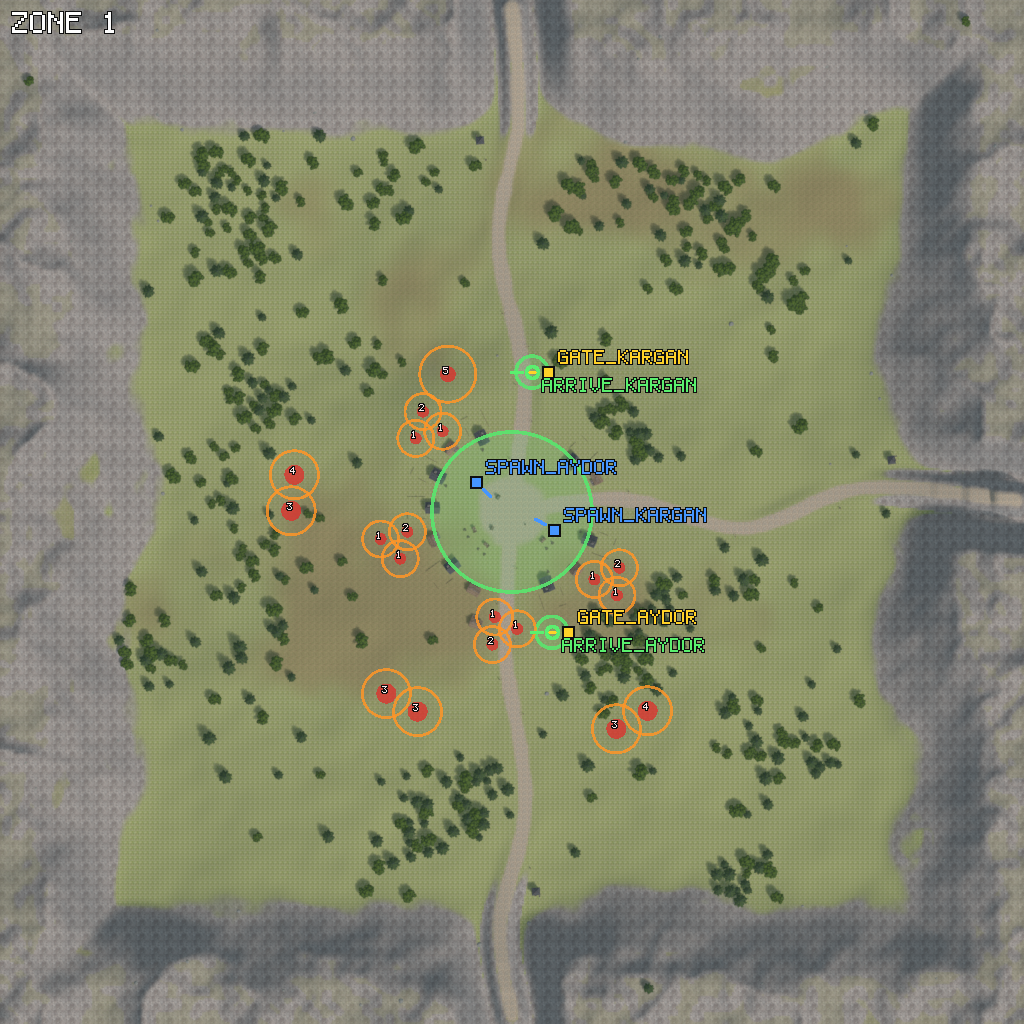
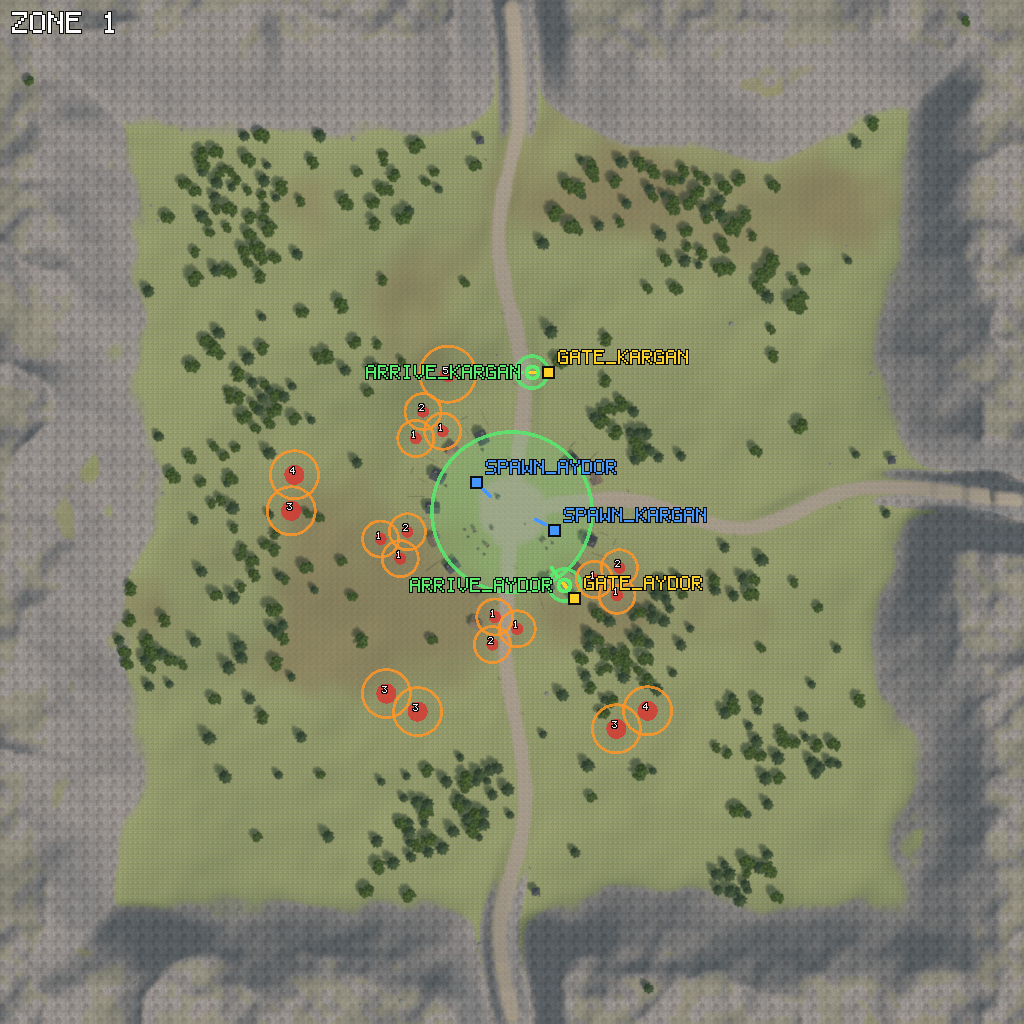
M13 world: zone 1 Aydor gate faces the plaza (its road ran through the south pack); docs and renders updated

Changed region(s): [[0.4062, 0.5312, 0.6875, 0.6562], [0.5312, 0.3438, 0.6875, 0.4062], [0.3438, 0.3438, 0.5, 0.375]]

diff --git a/tools/blender/gen_terrain.py b/tools/blender/gen_terrain.py
@@ -67,14 +67,16 @@ SPAWNS = [("spawn_aydor", 238.0, 271.0, math.radians(135.0)),
           ("spawn_kargan", 277.0, 247.0, math.atan2(ANT_TASI[0] - 277.0, ANT_TASI[1] - 247.0))]
 SPAWN_WALL_CLEAR = 8.0
 # M13 "Üç Yurt": the gates to the two homelands and where a player arriving through them appears
-# (docs/WORLD_ZONES_ART.md). Aydor gate south-south-east of the village (between the south and
-# south-east Kül Çömezi packs), Kargan gate north, east of the north road and well west of the line
-# world_tour walks. A gate's yaw turns its front (the approach side) towards its arrival point; an
-# arrival point stands 8 m in front of its gate, facing away from it. They are written after
-# SPAWNS and placed after everything else (props in the way are dropped), so every other placement
-# keeps its exact position.
-GATE_MARKERS = [  # (gate marker, arrival marker, gate prop, gate x, z, arrival distance)
-    ("gate_aydor", "arrive_aydor", "gate_aydor", 284.0, 196.0, 8.0),
+# (docs/WORLD_ZONES_ART.md). Aydor gate south-south-east of the village just outside the house ring,
+# facing the plaza: the straight walk in passes between two houses and stays 5 m beyond every
+# monster's reach (the south road runs through the south pack, so the gate does not face it); its
+# arrival point lies inside the village's safe ground. Kargan gate north, east of the north road and
+# well west of the line world_tour walks, facing the road 12 m away. A gate's yaw turns its front
+# (the approach side) towards its arrival point; an arrival point stands 8 m in front of its gate,
+# facing away from it. They are written after SPAWNS and placed after everything else (props in the
+# way are dropped), so every other placement keeps its exact position.
+GATE_MARKERS = [  # (gate marker, arrival marker, gate prop, gate x, z, arrival distance[, target])
+    ("gate_aydor", "arrive_aydor", "gate_aydor", 287.0, 213.0, 8.0, "plaza"),
     ("gate_kargan", "arrive_kargan", "gate_kargan", 274.0, 326.0, 8.0),
 ]
 
@@ -549,13 +551,19 @@ def nearest_road_point(F, x, z):
 def gate_layout(F, gate_markers, target):
     """Per gate: dict(gate=(name, x, z, yaw), arrive=(name, x, z, yaw), mesh, road=(x, z)). The
     arrival point lies `dist` m from the gate towards `target` (None: the nearest road point, so the
-    approach from the road runs straight through the opening); the gate's front faces it."""
+    approach from the road runs straight through the opening); the gate's front faces it. A marker
+    tuple may carry its own target (7th item: "plaza" = the village centre, the walk ends at the
+    plaza's dirt edge 17 m before it)."""
     out = []
-    for (gname, aname, mesh, gx, gz, dist) in gate_markers:
+    for (gname, aname, mesh, gx, gz, dist, *own) in gate_markers:
         road, _ = nearest_road_point(F, gx, gz)
         tx, tz = road if target is None else target
+        if own and own[0] == "plaza":
+            tx, tz = CENTER
         dx, dz = tx - gx, tz - gz
         n = math.hypot(dx, dz)
+        if own and own[0] == "plaza":
+            road = (gx + dx / n * (n - 17.0), gz + dz / n * (n - 17.0))
         ax, az = gx + dx / n * dist, gz + dz / n * dist
         yaw = facing(gx, gz, ax, az)
         out.append(dict(gate=(gname, gx, gz, yaw), arrive=(aname, round(ax, 2), round(az, 2), yaw), mesh=mesh,
@@ -567,7 +575,7 @@ def gate_keepout(g):
     """Keep-out shapes around a gate: (kind, data, clearance) for clear_for_gates."""
     (_, gx, gz, _), (_, ax, az, _) = g["gate"], g["arrive"]
     return [("disc", (gx, gz), 6.5), ("disc", (ax, az), 4.5), ("seg", ((gx, gz), (ax, az)), 2.5),
-            ("seg", ((gx, gz), g["road"]), 1.6)]
+            ("seg", ((gx, gz), g["road"]), 1.2)]
 
 
 def clear_for_gates(objects, gates, yielding=YIELDING):
@@ -586,7 +594,7 @@ def clear_for_gates(objects, gates, yielding=YIELDING):
                 hit = hit or d < clear
         if hit:
             if o["mesh"] not in yielding:
-                raise SystemExit(f"{g['gate'][0]}: {o['mesh']} at ({o['x']:.1f}, {o['z']:.1f}) is in the way")
+                raise SystemExit(f"a gate: {o['mesh']} at ({o['x']:.1f}, {o['z']:.1f}) is in the way")
             continue
         keep.append(o)
     return keep

diff --git a/tests/assets/content/EnvironmentTests.cpp b/tests/assets/content/EnvironmentTests.cpp
@@ -690,9 +690,9 @@ TEST_CASE("zones 1-3 markers: race spawns, gates and arrival points on walkable 
                 for (float v : {-2.0f, -1.0f, 0.0f, 1.0f, 2.0f})
                     CHECK(t.isWalkable(gate->position.x + fz * u + fx * v, gate->position.z - fx * u + fz * v));
             // A straight walkable path from the gate through the arrival point on to the road (the
-            // road layer of the splat), within 40 m.
+            // road layer of the splat: a road or the village plaza), within 45 m.
             bool road = false;
-            for (float s = 0.0f; s <= 40.0f && !road; s += 0.25f)
+            for (float s = 0.0f; s <= 45.0f && !road; s += 0.25f)
             {
                 const float x = gate->position.x + fx * s, zz = gate->position.z + fz * s;
                 INFO("path at " << x << ", " << zz);

diff --git a/tools/blender/gen_zone_shots.py b/tools/blender/gen_zone_shots.py
@@ -291,7 +291,7 @@ SHOTS = {
     3: [("town", (240.0, 8.0, 300.0), (258.0, 8.0, 360.0)),
         ("gate", (252.0, 4.5, 132.0), (256.0, 4.0, 100.0)),
         ("hunting", (222.0, 6.0, 222.0), (168.0, 2.0, 250.0))],
-    1: [("gate_aydor", (262.0, 4.5, 190.0), (284.0, 3.0, 196.0)),
+    1: [("gate_aydor", (274.0, 4.5, 231.0), (287.0, 3.0, 213.0)),
         ("gate_kargan", (255.0, 4.5, 330.0), (274.0, 3.0, 326.0))],
 }
 # A monster of each new kind at one of its spawn points, the camera 6 m off.

diff --git a/docs/DEVELOPMENT_PLAN.md b/docs/DEVELOPMENT_PLAN.md
@@ -711,7 +711,7 @@ assetc'ye değişiklik gerekmedi.
 
 | Konu | Ne var | Nasıl doğrulandı |
 |---|---|---|
-| Bölge 1 (Ortaocak) | Yükseklik ve splat haritası M12 ile bayt bayt aynı; tanıma dört işaret (`gate_aydor` 284/196, `arrive_aydor` 276/195.85, `gate_kargan` 274/326, `arrive_kargan` 266/325.94) ve iki kapı eklendi, yürüme maskesine yalnız kapı ayakları. Aydor kapısı köyün güneyinde, Kargan kapısı kuzeyinde; ikisi de en yakın yola bakıyor, `world_tour` hattının ve kurt çemberlerinin dışında | `gen_terrain.py` kontrolleri (açıklık yürünebilir, kapı → varış → yol düz yürünebilir), `content` testleri |
+| Bölge 1 (Ortaocak) | Yükseklik ve splat haritası M12 ile bayt bayt aynı; tanıma dört işaret (`gate_aydor` 287/213, `arrive_aydor` 282.32/219.49, `gate_kargan` 274/326, `arrive_kargan` 266/325.94) ve iki kapı eklendi, yürüme maskesine yalnız kapı ayakları. Aydor kapısı köyün güneyinde, Kargan kapısı kuzeyinde; Aydor kapısı meydana, Kargan kapısı 12 m ötedeki kuzey yoluna bakıyor; ikisi de `world_tour` hattının ve kurt çemberlerinin dışında | `gen_terrain.py` kontrolleri (açıklık yürünebilir, kapı → varış → yol düz yürünebilir), `content` testleri |
 | Bölge 2 (Tanyeri Burcu) | 512 m altın ova, iki basamaklı tebeşir yarlarla çevrili; teras üstünde beyaz taş kasaba (burç kulesi, sur, 15 ev, soluk güneşli sancaklar, kuyu), çevrede çitli tarlalar (saban izi), uzakta yanık tarlalar (av yeri); kuzey yolu yarı kesip kapıya varıyor, kapının ardı kapalı. `spawn_aydor`, `gate_esik`, `arrive_esik` | `gen_zones.py` kontrolleri, kuşbakışı + yer seviyesi çizimler, `content` testleri |
 | Bölge 3 (Demirağız geçidi) | Karlı koyu dağlar arasında kuzeye yükselen dar vadi, üç yan çanak (av yerleri), kasabanın kuzeyinde dik kaya duvarı; duvara oyulmuş beş kapı, taş kulübeler, iki ocak, mangallar, demir bağlı çit; güneyde boğazın dibinde kapı. `spawn_kargan`, `gate_esik`, `arrive_esik` | aynı |
 | Doku katmanları | 8 yeni 1024² PBR katman (`steppe`, `chalk_road`, `chalk_rock`, `scorched`, `ash_tundra`, `gravel`, `basalt`, `snow`), mevcut taramalardan renk ayarıyla; üç bölge hiçbir zemin katmanını paylaşmıyor | `previews/textures/terrain_layers_m13.png`, test |
@@ -728,7 +728,7 @@ sonra, `gen_zones.py` en sonda), inceleme çizimleri `gen_zone_shots.py` (varlı
 
 **Sapmalar**: yeni canavarlar yeni üretilmiş mesh değil, mevcut kaynakların yeniden derilenmesi
 (Yanık Nöbetçi `aydor_2`, Donuk Ocakçı `kargan_0` oyuncu görünümlerinden: düşmüş askerler);
-bölge 1 kapıları köy merkezine değil en yakın yola bakıyor (kapıdan yola düz yol için), bu yüzden
+bölge 1'de Aydor kapısı meydana, Kargan kapısı en yakın yola bakıyor (kapıdan yola / meydana düz yol için; güney yolu güney sürüsünün içinden geçtiği için Aydor kapısı ona bakmıyor), bu yüzden
 `arrive_*` ilk işlemdeki konumundan kaydı; yurt bölgelerinde yalnız kendi ırkının doğuş noktası var
 (sunucunun bugünkü `Zone::create`'i ikisini de istiyor).
 
@@ -737,7 +737,7 @@ yarı gerçekçi üretilmiş nesnelerinin yanında sade kalıyor; bölge 3'ün d
 arkasındaki kaya duvarı düz bir perde gibi (önizlemede doku düzlemsel izdüşümle uzuyor, oyunda kaya
 katmanı üç düzlemli); Donuk Ocakçı'nın soğuk çatlakları az (ışıma payı %0.2); Yanık Nöbetçi'nin ölüm
 klibinde zırhı yere 0.56 m giriyor (oyuncu görünümünün aynı klibi; test eşiği bu model için 0.6 m);
-bölge 2'de pazar tezgâhı ve eşya yığınları az (ev halkası plazayı dolduruyor).
+bölge 2'de pazar tezgâhı ve eşya yığınları az (ev halkası plazayı dolduruyor); bölge 1'in güneyi iki sürüyle dolu olduğundan Aydor kapısı güneydoğu sürüsünün saldırı menzilinin yalnız 4.8 m ötesinde (sürüler taşınmadı; daha fazla pay istenirse o sürü kaydırılmalı).
 
 **Doğrulanmadı**: hiçbiri oyun istemcisinde görülmedi (istemci yeni bölgelere giremiyor); kapı
 perdesinin yarı saydam görünümü yalnız Blender'da; yeni dokuların BC sıkıştırmalı hâli yalnız test

diff --git a/docs/WORLD_ZONES_ART.md b/docs/WORLD_ZONES_ART.md
@@ -29,8 +29,8 @@ from the gate). Engine yaw convention: forward = (sin yaw, cos yaw).
 |---|---|---|---|---|---|
 | 1 | `spawn_aydor` | 238.00 | 271.00 | 2.3562 | unchanged (M5) |
 | 1 | `spawn_kargan` | 277.00 | 247.00 | −1.0383 | unchanged (M5) |
-| 1 | `gate_aydor` | 284.00 | 196.00 | −1.5901 | 66 m SSE of the plaza (~12 s at run speed), between the south and south-east Kül Çömezi packs; faces west to the south road (31 m) |
-| 1 | `arrive_aydor` | 276.00 | 195.85 | −1.5901 | 8 m in front of the gate; own safe zone r 8 (outside the village's) |
+| 1 | `gate_aydor` | 287.00 | 213.00 | −0.6251 | 53 m SSE of the plaza (~10 s at run speed), just outside the house ring; faces the plaza (NW): the straight walk in passes between two houses onto the plaza dirt (36 m). The south-east Kül Çömezi pack is 4.8 m beyond its aggro reach (the south road runs through the south pack, so the gate does not face that road) |
+| 1 | `arrive_aydor` | 282.32 | 219.49 | −0.6251 | 8 m in front of the gate, 45 m from the plaza; own safe zone r 8 (outside the village's r 40) |
 | 1 | `gate_kargan` | 274.00 | 326.00 | −1.5778 | 72 m NNE of the plaza, east of the north road, 22 m west of the line `world_tour` walks; faces west to the north road (12 m) |
 | 1 | `arrive_kargan` | 266.00 | 325.94 | −1.5778 | 8 m in front of the gate; own safe zone r 8 |
 | 2 | `spawn_aydor` | 244.00 | 286.50 | 0.3491 | town plaza (250, 296), 11 m from its centre; nearest wall 19 m |
@@ -56,7 +56,7 @@ only their own race's spawn, as briefed.
 | Stored heights | 4–92 m | 8–62 m | 29–181 m |
 | Layers (splat R G B A) | grass, dirt, rock, drygrass | `steppe` (golden), `chalk_road`, `chalk_rock`, `scorched` | `ash_tundra`, `gravel`, `basalt`, `snow` |
 | Walkable | 61.6 % | 75.8 % | 33.5 % |
-| Placements | 604 | 534 | 327 |
+| Placements | 602 | 534 | 327 |
 
 The eight new layers (`gen_textures.py` `LAYERS_M13`) are the same four Poly Haven scans graded
 further (saturation, brightness, colour pull; `snow` lifted towards white with flattened normals);
@@ -140,7 +140,7 @@ Spawns: zone 2 — four loose packs of three Anız Yanığı 75–90 m out just 
 Donuk Ocakçı in the side basins and on the valley floor 110–200 m out. Safe zones: zone 2 town r 46
 and `arrive_esik` r 10, zone 3 town r 42 and `arrive_esik` r 10, zone 1 `arrive_aydor` / `arrive_kargan`
 r 8 each (the village's r 40 is unchanged). Every wander circle + aggro radius stays > 3 m clear of
-each race spawn and arrival point (content test; in practice ≥ 8 m), and ≥ 12 m in the homelands.
+each race spawn and arrival point (content test; in practice ≥ 6 m in zone 1), and ≥ 12 m in the homelands.
 
 ## 5. What the client loads per zone
 
@@ -166,4 +166,5 @@ blender --background --factory-startup --python tools/blender/gen_zone_shots.py 
 
 Order matters: props before terrains (footprints), `monsters.toml` spawns before `gen_zones.py`.
 Zone 1's heightmap and splat are byte-identical to M12; its description gained the four markers and
-the two gates, its walk mask the gates' pillars, nothing else moved.
+the two gates, its walk mask the gates' pillars; two fence sections of a house yard gave way to the
+Aydor gate's path, nothing else moved.
